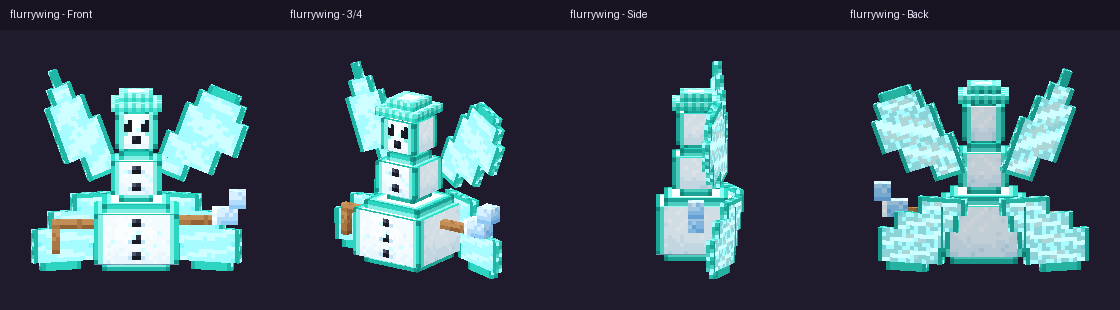
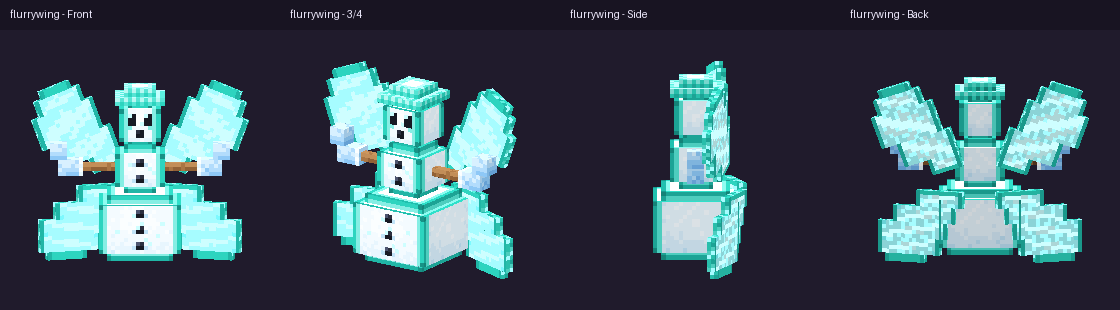
Art Pass Section 2.4: make Flurrywing wings symmetric and move stick-mitten arms to middle snowball

diff --git a/tools/art/make_pets_art.py b/tools/art/make_pets_art.py
@@ -4038,11 +4038,16 @@ def make_flurrywing():
         "head_cap": (20, 16, 3, 5, 3),
     }
     HAT = {"hat_brim": (32, 16, 6, 1, 6), "hat_crown": (74, 16, 4, 1, 4)}
-    STICKS = {"stick_upper": (100, 29, 5, 1, 1), "stick_lower": (40, 25, 1, 3, 1), "mitten_arm": (12, 32, 4, 1, 1)}
-    MITTENS = {"mitten_palm": (12, 25, 3, 2, 2), "mitten_tip": (32, 25, 2, 2, 2)}
+    STICKS = {"stick_left": (0, 36, 4, 1, 1), "stick_right": (34, 36, 4, 1, 1)}
+    MITTENS = {
+        "mitten_palm_left": (12, 36, 3, 2, 2),
+        "mitten_tip_left": (24, 36, 2, 2, 2),
+        "mitten_palm_right": (46, 36, 3, 2, 2),
+        "mitten_tip_right": (58, 36, 2, 2, 2),
+    }
     UPPER_WINGS = [
-        [(22, 25, 4, 3, 1), (90, 16, 6, 4, 1), (0, 25, 5, 3, 1), (88, 29, 3, 2, 1), (96, 29, 1, 2, 1)],
-        [(78, 29, 4, 2, 1), (104, 16, 7, 3, 1), (56, 16, 8, 4, 1), (36, 29, 6, 2, 1), (22, 32, 4, 1, 1)],
+        [(0, 42, 4, 2, 1), (12, 42, 7, 3, 1), (30, 42, 8, 4, 1), (50, 42, 6, 2, 1), (66, 42, 4, 1, 1)],
+        [(0, 49, 4, 2, 1), (12, 49, 7, 3, 1), (30, 49, 8, 4, 1), (50, 49, 6, 2, 1), (66, 49, 4, 1, 1)],
     ]
     LOWER_WINGS = [
         [(50, 29, 6, 2, 1), (84, 25, 8, 2, 1), (44, 25, 9, 2, 1), (102, 25, 8, 2, 1), (112, 29, 5, 1, 1)],
@@ -4193,17 +4198,19 @@ def make_flurrywing():
             if (lx + ly) % 2 == 0 or (2 <= lx <= htw - 3 and 2 <= ly <= hth - 3):
                 put(img, htx + lx, hty + ly, SNOW_RAMP[7 if (lx + ly) % 3 == 0 else 5])
 
-    # 3. Wood-Bark Stick Arm & Quilted Ice-Blue Mitten
+    # 3. Matching Wood-Bark Stick & Quilted Ice-Blue Mitten Arms
     for i, box in enumerate(STICKS.values()):
         shade_ramp_box(*box, STICK_RAMP, seed=20 + i)
     for i, (mname, box) in enumerate(MITTENS.items()):
         shade_ramp_box(*box, MITTEN_RAMP, seed=30 + i)
-        if mname == "mitten_palm":
+        if mname.startswith("mitten_palm_"):
+            is_left = mname.endswith("_left")
             mf = f2x(*box)
             for fname in ("front", "back", "top", "bottom"):
                 rx, ry, rw, rh = mf[fname]
+                cuff_x = (rw - 1 if fname != "back" else 0) if is_left else (0 if fname != "back" else rw - 1)
                 for ly in range(rh):
-                    put(img, rx, ry + ly, SNOW_RAMP[6 if ly % 2 == 0 else 4])
+                    put(img, rx + cuff_x, ry + ly, SNOW_RAMP[6 if ly % 2 == 0 else 4])
 
     # 4. Four Veined Crystalline Frost Butterfly Wings + Glowmask
     for wing_idx, slabs in enumerate(UPPER_WINGS + LOWER_WINGS):

diff --git a/PLAN.md b/PLAN.md
@@ -6,11 +6,11 @@ Written 2026-11-15; consolidated 2026-11-18 into a single phased and staged plan
 
 ## Now
 
-*Updated 2026-11-23 by Antigravity. A session handoff, not history: every session rewrites this section before it ends (see AGENTS.md). Read it first.*
+*Updated 2026-11-24 by Antigravity. A session handoff, not history: every session rewrites this section before it ends (see AGENTS.md). Read it first.*
 
 | | |
 |---|---|
-| **In progress** | **Art Pass — Section 2.4 (Pet & Companion Creatures, one creature at a time)** on branch `art/pass-3-pets` (built on `art/pass-2-weapons-items`): **Chester** (`chester` + `chester_sleep`, `128×128`, commit `6411af1`), **Crystal Fox** (`crystal_fox`, `256×128` 2× coat + `crystal_fox_glowmask.png` + `AutoGlowingGeoLayer` + `--crystal-fox` CLI flag, commit `df1c518`), **Shadow Wisp** (`shadow_wisp`, `256×128` 2× shadow coat + `shadow_wisp_glowmask.png` + `AutoGlowingGeoLayer` + `--shadow-wisp` CLI flag, commits `499694c`/`89c3542`), **Cinder Crag** (`cinder_crag`, `256×128` 2× crimson-basalt & magma coat + `cinder_crag_glowmask.png` + `AutoGlowingGeoLayer` + crossed-plane cutout `entityCutoutNoCull` fire crown + `--cinder-crag` CLI flag, commits `7490ec6`/`db6049f`), **Zaphox** (`zaphox`, `256×128` 2× shaded cheetah coat + `entityCutoutNoCull` alpha-cutout sawtooth lightning wings, pointed fox-elephant ears, wispy fur tufts, tapered curling trunk & legs + `zaphox_glowmask.png` + `AutoGlowingGeoLayer` + `--zaphox` CLI flag, commits `2fb887f`/`d446818`), **Galecorn** (`galecorn`, `256×128` 2× sunny fox-unicorn coat & swirling cloud-fan tail + `entityCutoutNoCull` alpha-cutout pointed ears, flowing mane locks, cheek tufts, wind-gust plumes & fetlock fins + `galecorn_glowmask.png` + `AutoGlowingGeoLayer` + `--galecorn` CLI flag, commit `fb5aa1b`), **Ember Drake** (`ember_drake`, `256×128` 2× diamond-scaled Canopy Emerald & ribbed Ember Amber hatchling + `entityCutoutNoCull` scalloped bat-dragon wing membranes, dorsal flame spines, cheek frills, blazing crossed-plane tail spade, flush slit-pupil dragon eyes & `ember_drake_glowmask.png` + `AutoGlowingGeoLayer` + `--ember-drake` CLI flag, commit `f515045`), **Peepkin** (`peepkin`, `256×128` 2× starry Astral-Plum & Twilight-Magenta plush orb + `entityCutoutNoCull` feathered eye-spot fairy winglets, sweeping eyelashes, halo crest, cheek tufts, starry tail-eye fan & tassel ribbons + `peepkin_glowmask.png` + `AutoGlowingGeoLayer` + `--peepkin` CLI flag, commit `8b6ac66`), **Prismling** (`prismling`, `256×128` multi-stop beveled Sunsteel armor, faceted rainbow crystal prism & armored pillar legs + carved back-of-head helm panel & prism rune + `entityCutoutNoCull` for the 8 floating elemental symbols + `prismling_glowmask.png` + `--prismling` CLI flag, commit `7988afa`), and **Flurrywing** (`flurrywing`, `256×128` 2× spherical frost-shaded snowballs, vertical coal dash buttons, knit turquoise beanie, bark stick & quilted mitten arms, veined crystalline butterfly wings + `flurrywing_glowmask.png` + `AutoGlowingGeoLayer` + `--flurrywing` CLI flag) upgraded and passing `lint_art.py --entity <id> --strict`, `preview_geo.py`, and `./gradlew build`. |
+| **In progress** | **Art Pass — Section 2.4 (Pet & Companion Creatures, one creature at a time)** on branch `art/pass-3-pets` (built on `art/pass-2-weapons-items`): **Chester** (`chester` + `chester_sleep`, `128×128`, commit `6411af1`), **Crystal Fox** (`crystal_fox`, `256×128` 2× coat + `crystal_fox_glowmask.png` + `AutoGlowingGeoLayer` + `--crystal-fox` CLI flag, commit `df1c518`), **Shadow Wisp** (`shadow_wisp`, `256×128` 2× shadow coat + `shadow_wisp_glowmask.png` + `AutoGlowingGeoLayer` + `--shadow-wisp` CLI flag, commits `499694c`/`89c3542`), **Cinder Crag** (`cinder_crag`, `256×128` 2× crimson-basalt & magma coat + `cinder_crag_glowmask.png` + `AutoGlowingGeoLayer` + crossed-plane cutout `entityCutoutNoCull` fire crown + `--cinder-crag` CLI flag, commits `7490ec6`/`db6049f`), **Zaphox** (`zaphox`, `256×128` 2× shaded cheetah coat + `entityCutoutNoCull` alpha-cutout sawtooth lightning wings, pointed fox-elephant ears, wispy fur tufts, tapered curling trunk & legs + `zaphox_glowmask.png` + `AutoGlowingGeoLayer` + `--zaphox` CLI flag, commits `2fb887f`/`d446818`), **Galecorn** (`galecorn`, `256×128` 2× sunny fox-unicorn coat & swirling cloud-fan tail + `entityCutoutNoCull` alpha-cutout pointed ears, flowing mane locks, cheek tufts, wind-gust plumes & fetlock fins + `galecorn_glowmask.png` + `AutoGlowingGeoLayer` + `--galecorn` CLI flag, commit `fb5aa1b`), **Ember Drake** (`ember_drake`, `256×128` 2× diamond-scaled Canopy Emerald & ribbed Ember Amber hatchling + `entityCutoutNoCull` scalloped bat-dragon wing membranes, dorsal flame spines, cheek frills, blazing crossed-plane tail spade, flush slit-pupil dragon eyes & `ember_drake_glowmask.png` + `AutoGlowingGeoLayer` + `--ember-drake` CLI flag, commit `f515045`), **Peepkin** (`peepkin`, `256×128` 2× starry Astral-Plum & Twilight-Magenta plush orb + `entityCutoutNoCull` feathered eye-spot fairy winglets, sweeping eyelashes, halo crest, cheek tufts, starry tail-eye fan & tassel ribbons + `peepkin_glowmask.png` + `AutoGlowingGeoLayer` + `--peepkin` CLI flag, commit `8b6ac66`), **Prismling** (`prismling`, `256×128` multi-stop beveled Sunsteel armor, faceted rainbow crystal prism & armored pillar legs + carved back-of-head helm panel & prism rune + `entityCutoutNoCull` for the 8 floating elemental symbols + `prismling_glowmask.png` + `--prismling` CLI flag, commit `7988afa`), and **Flurrywing** (`flurrywing`, `256×128` 2× spherical frost-shaded snowballs, vertical coal dash buttons, knit turquoise beanie, symmetric middle-snowball stick & quilted mitten arms, symmetric veined crystalline butterfly wings + `flurrywing_glowmask.png` + `AutoGlowingGeoLayer` + `--flurrywing` CLI flag, commit `3aec748` + silhouette update) upgraded and passing `lint_art.py --entity <id> --strict`, `preview_geo.py`, and `./gradlew build`. |
 | **Next** | Continue Section 2.4 **one creature at a time** on `art/pass-3-pets` (next pets/creatures with `lint_art.py --strict` notes or `<128×128` sheets: `sunbeam`, `frogduck`, plus structure enemies & `crystal_colossus`). Always inspect any kid's drawing in `qa/reference/pets/` first. Then run `./gradlew runClient` visual check & open PRs (`art/pass-1-armor`, `art/pass-2-weapons-items`, `art/pass-3-pets` → `main`). |
 | **Waiting on the owner** | 1. In-game look & screenshots when home for the 5 v3 armor sets, Section 2.2/2.3 icons, Section 2.4 upgraded pets (`chester`, `crystal_fox`, `shadow_wisp`, `cinder_crag`, `zaphox`, `galecorn`, `ember_drake`, `peepkin`, `prismling`, `flurrywing`), **Boss Framework**, **Tier 3 Arsenal**, **The Great All-Seer**, **Primal Portal / Dragon Jungle**, **Embercrown Sovereign**, **Twin-Star Endgame**, and family LAN co-op playtest across Phases 1–5 (`qa/evidence/`). 2. The kids' official names for **Prismling**, **Flurrywing**, **Frogduck**, and **Zapkin** (placeholders; **Sunbeam** is final; only `en_us` display names change). 3. Steve's official names for **Shadow Wisp** and **Cinder Crag**. 4. Confirm the `PERSONAL_INFO_BLOCKLIST` GitHub Actions secret is set. |
 | **Other work in flight** | `art/sunsteel-armor-redesign` → `art/pass-1-armor` (Section 1 & 2.1) → `art/pass-2-weapons-items` (Section 2.2 & 2.3) → `art/pass-3-pets` (Section 2.4 in progress). |
@@ -269,7 +269,7 @@ Nobody on this project is an artist and there is no budget for commissions. The 
   - `105/105` green; red-proofs: `attackElementAgainst` returning primary; `isAllTypes` returning `false`. Evidence: `qa/evidence/prismling-2026-11-17.png`.
 - **6B — Flurrywing (`artilian:flurrywing`, `[x] Complete`, PR #6 `7702d48`, `1f60810`, `89e44cd`):**
   - `ICE / AIR`, regular roster stats (22 HP, 4.5 ATK, 0.28 speed), hitbox `1.3 x 2.75` (`2.75` blocks tall), Starlight Highlands weight `4`.
-  - Three stacked snowballs with coal buttons, turquoise beanie, asymmetric stick & mitten arms, 4 butterfly frost wings (`tools/art/models/flurrywing.bbmodel`), hover damping + zero fall damage, `SNOWFLAKE` particles.
+  - Three stacked snowballs with coal buttons, turquoise beanie, symmetric middle-snowball stick & mitten arms, 4 symmetric butterfly frost wings (`tools/art/models/flurrywing.bbmodel`), hover damping + zero fall damage, `SNOWFLAKE` particles.
   - `109/109` green; red-proofs: `causeFallDamage` → `super`; hitbox shrunk to `0.9 x 1.8`. Evidence: `qa/evidence/flurrywing-2026-11-17.png`.
 - **6C — Sunbeam (`artilian:sunbeam`, `[x] Complete` — Stages 1–2 + v2 Art in PR #7; art signed off 2026-11-19):**
   - Second legendary pet (**Sunbeam** is the owner's final name). Adds 12th `PetElement.SUNSTEEL` (`0xFBBF24`, strong vs `SHADOW`/`ICE`/`DRAGON`, resisted by `FIRE`/`EARTH`, weak to `WATER`/`ELECTRIC`, applies `GLOWING` 60t + `WEAKNESS` 60t).
